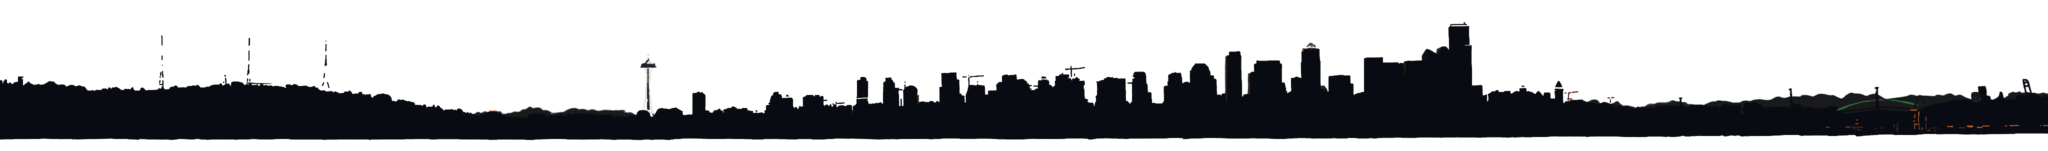
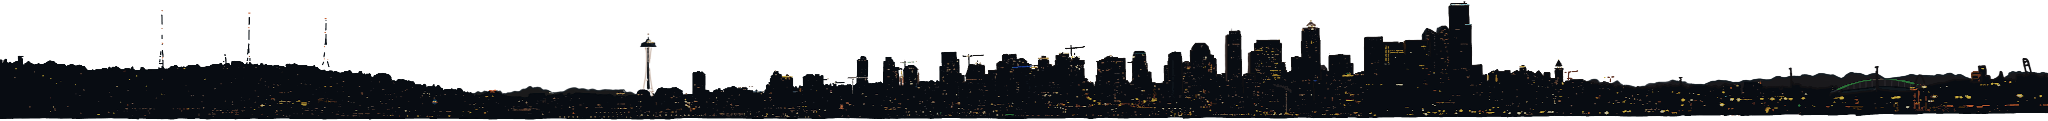
Add images and spacing, and adjust text in project01 files

diff --git a/styles/main.css b/styles/main.css
@@ -128,7 +128,7 @@ a:visited {
 
   /* background image */
   background-color: transparent;
-  background-image: url(/images/seattleSkylineSm.png); /* stand-in for similar image with lights... would like to show whole thing without making it too small; could animate on scroll using JS and CSS later on */
+  background-image: url(/images/seattleSkylineSm.png);
   background-position: bottom left;
   background-size: initial;
   background-repeat: no-repeat;
@@ -407,8 +407,15 @@ a.darkLink {
 
 .respImgGrid {
   display: grid;
-  grid-template-columns: repeat(auto-fill, minmax(100px, 1fr));
   grid-gap: 2rem;
+}
+
+.grid3Col {
+  grid-template-columns: minmax(100px, 1fr) minmax(100px, 1fr) minmax(100px, 1fr));
+}
+
+.grid2Col {
+  grid-template-columns: minmax(100px, 1fr) minmax(100px, 1fr));
 }
 
 button {

diff --git a/project01/information_architecture.md b/project01/information_architecture.md
@@ -90,11 +90,11 @@
   </header>
 
   <div class="centerGrid">
-    <img src="images/jotAnd/flows.jpg" alt="penciled user-flows in a pile over wood flooring" class="centerImg">
-    <img src="images/jotAnd/flowChartsDk.webp" alt="user-flow charts" class="centerImg">
+    <img src="images/jotAnd/flows.jpg" alt="penciled user-flows in a pile over wood flooring" class="centerImg smBreak smallPic">
+    <img src="images/jotAnd/flowChartsDk.webp" alt="user-flow charts" class="centerImg smBreak">
   </div>
 
-  <p>Following the user stories, I generated 33 user flows, an important reference for crafting content strategy and connecting wireframes.</p>
+  <p class="smBreak">Following the user stories, I generated 33 user flows, an important reference for crafting content strategy and connecting wireframes.</p>
 </section> <!-- end user flows -->
 
 <section class="medBreak"> <!-- content strategy -->
@@ -108,14 +108,14 @@
   </header>
 
   <div class="centerGrid">
-    <img src="images/jotAnd/earlyBranding1.jpg" alt="sketches and notes for logo ideas" class="centerImg">
+    <img src="images/jotAnd/earlyBranding1.jpg" alt="sketches and notes for logo ideas" class="centerImg smallPic">
   </div>
 
   <p>Drawing logical connections between tasks in the user flows, I drew up a site map, and began to verbally lay out the app and landing page.</p>
 
   <p>To establish product tone, I sketched dummy wireframes, logos, and word association lists. I tried out several names, settling on the flexibility and invitational promise of 'jot &'.</p>
 
-  <p>These artefacts became the skeleton for my wireframes.</p>
+  <p>These artifacts became the skeleton for my wireframes.</p>
 </section> <!-- end content strategy -->
 
 <section class="medBreak"> <!-- wireframes -->
@@ -127,12 +127,12 @@
     </p>
   </header>
 
-  <div class="centerGrid respImgGrid">
+  <div class="centerGrid grid2Col respImgGrid smBreak">
     <img src="images/jotAnd/sketchGrid.jpg" alt="sketch of a file dashboard in grid view" class="centerImg">
     <img src="images/jotAnd/lapFrame.png" alt="wireframe of a file dashboard in grid view" class="centerImg">
   </div>
 
-  <p>I began sketching wireframes at a fairly high level before transitioning to dummying pages in Figma.</p>
+  <p class="smBreak">I began sketching wireframes at a fairly high level before transitioning to dummying pages in Figma.</p>
 
   <p>As I began to build out wireframes, the project ballooned with the creation of dozens of eventually discarded pages. Exact steps in processes turned out to be hard to pin down, and as I made changes in one place, it became difficult to maintain consistency.</p>
 
@@ -148,7 +148,7 @@
 
     <p>After working out many of the problems in the static screens, I began to compose a clickable prototype. This turned out to be one of the hardest and most demanding sections of my work. I ended up making hundreds of pages of material while running into previously unknown constraints in Figma.</p>
 
-    <p>I eventually dropped many responses to user input (such as hover states in menus or above icons) and leaf the prototype less interactive than planned in order to achieve functionality.</p>
+    <p>I eventually dropped many responses to user input (such as hover states in menus or above icons), making the prototype less interactive than planned in order to achieve functionality.</p>
 
     <p>I continued to replace individual pieces with components and struggled to standardize my screens.</p>
 
@@ -212,7 +212,7 @@
         <h3>Resultant action</h3>
       </header>
 
-      <p>The testers were able to navigate the landing page and sign up easily. However, the onboarding tour and empty state screen posed problems. Alleviating fear was the most important thing I had to do after testing.</p>
+      <p>The testers were able to navigate the landing page and sign up easily. However, the onboarding tour and empty-state screen posed problems. Alleviating fear was the most important thing I had to do after testing.</p>
 
       <p>Improved tour directions and the addition of buttons to advance the tour let users ease in to the experience.</p>
 

diff --git a/project01/visual_design.md b/project01/visual_design.md
@@ -2,6 +2,10 @@
   <h1>Visual design</h1>
 </header>
 
+<div class="centerGrid smBreak">
+  <img src="images/jotAnd/logos.png" alt="black and white squares and circles containing different colorations of the jot & logo" class="centerImg">
+</div>
+
 <section class="smBreak"> <!-- branding -->
   <header>
     <h2 class="headerWithP">Branding</h2>
@@ -17,7 +21,11 @@
     </p>
   </header>
 
-  <p>Based on user and persona needs, jot &'s primary values are creativity, communication, and dependability. Its promotional copy points to togetherness, sharing, memories, fun, and ease, while leaving room for business and work. There is a quiet emphasis on personal empowerment and ‘saving’.</p>
+  <div class="centerGrid smallerBreak">
+    <img src="images/jotAnd/moodboard.jpg" alt="muticolored moodboard with various scenes and people" class="centerImg smallPic">
+  </div>
+
+  <p class="smallerBreak">Based on user and persona needs, jot &'s primary values are creativity, communication, and dependability. Its promotional copy points to togetherness, sharing, memories, fun, and ease, while leaving room for business and work. There is a quiet emphasis on personal empowerment and ‘saving’.</p>
 
   <p>The brand color, a bright violet, mixes work and play. The brand copy of Poppins sets a jaunty, bold feel, while the body copy of Open Sans reassures with professionalism and reliability. Jot &’s logo brings all of this together in a playful, geometric combination of the brand name, a camera, and a stylus.</p>
 </section> <!-- end branding -->
@@ -28,7 +36,13 @@
     <p><a href="https://www.figma.com/file/BvOs1gYiZ40By1v86qFXTL/cloudRefine">mockup</a></p>
   </header>
 
-  <p>With the branding set, I began to apply it to create a mockup from my wireframes in Figma.</p>
+  <div class="centerGrid grid3Col respImgGrid smBreak">
+    <img src="images/jotAnd/hifiGrid.jpg" alt="high fidelity mockup of grid dashboard" class="centerImg">
+    <img src="images/jotAnd/hifiList.jpg" alt="high fidelity mockup of list dashboard" class="centerImg">
+    <img src="images/jotAnd/hifiNote.jpg" alt="high fidelity mockup of note dashboard" class="centerImg">
+  </div>
+
+  <p class="smBreak">With the branding set, I began to apply it to create a mockup from my wireframes in Figma.</p>
 
   <p>First, I found free images which matched the brand, illustrated them in Autodesk Sketchbook (iOS), simplified the images in Adobe Illustrator, and added them to the landing and features pages.</p>
 
@@ -122,6 +136,6 @@
 
     <p>For the prototype, I made the logo clickable, added a page for search results, adjusted related overlays, and fixed a glitch which made some menu options activate upon hovering.</p>
 
-    <p>I updated the styleguide, adding pages for the colors of file icons and buttons and  a section covering hover and click states for clickable icons and links.</p>
+    <p>I updated the styleguide, adding pages for the colors of file icons and buttons and a section covering hover and click states for clickable icons and links.</p>
   </section> <!-- end finishing touches -->
 </section> <!-- end hi-fi wireframes -->

diff --git a/project01/introduction.md b/project01/introduction.md
@@ -1,4 +1,4 @@
-<section class="centerGrid respImgGrid">
+<section class="centerGrid respImgGrid grid3Col">
   <img src="images/jotAnd/jotMobGrid.png" alt="jot & mobile dashboard in grid view" class="centerImg">
   <img src="images/jotAnd/jotMobList.png" alt="jot & mobile dashboard in list view" class="centerImg">
   <img src="images/jotAnd/jotMobNote.webp" alt="jot & mobile dashboard in a note" class="centerImg">
@@ -17,7 +17,8 @@
     <h2>The solution</h2>
   </header>
 
-  <div class="centerGrid medBreak">
+  <div class="centerGrid grid2Col respImgGrid medBreak">
+    <img src="images/jotAnd/jotLapList.png" alt="jot & laptop dashboard in list view" class="centerImg">
     <img src="images/jotAnd/jotLapNote.png" alt="jot & laptop dashboard in note view" class="centerImg">
   </div>
 

diff --git a/project01/discovery.md b/project01/discovery.md
@@ -29,7 +29,7 @@
     </p>
   </header>
 
-  <div class="respImgGrid">
+  <div class="respImgGrid grid3Col">
     <img src="images/jotAnd/corporateLogos/googleDrive.png" alt="Google Drive logo lockup" class="centerImg">
     <img src="images/jotAnd/corporateLogos/dropbox.png" alt="Dropbox logo lockup" class="centerImg">
     <img src="images/jotAnd/corporateLogos/evernote.png" alt="Evernote logo lockup" class="centerImg">
